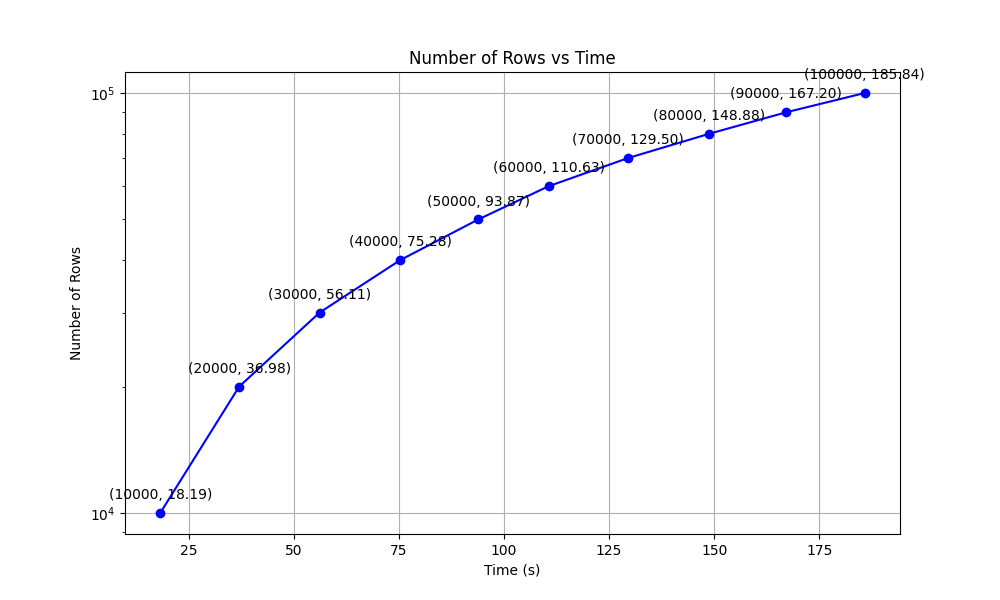
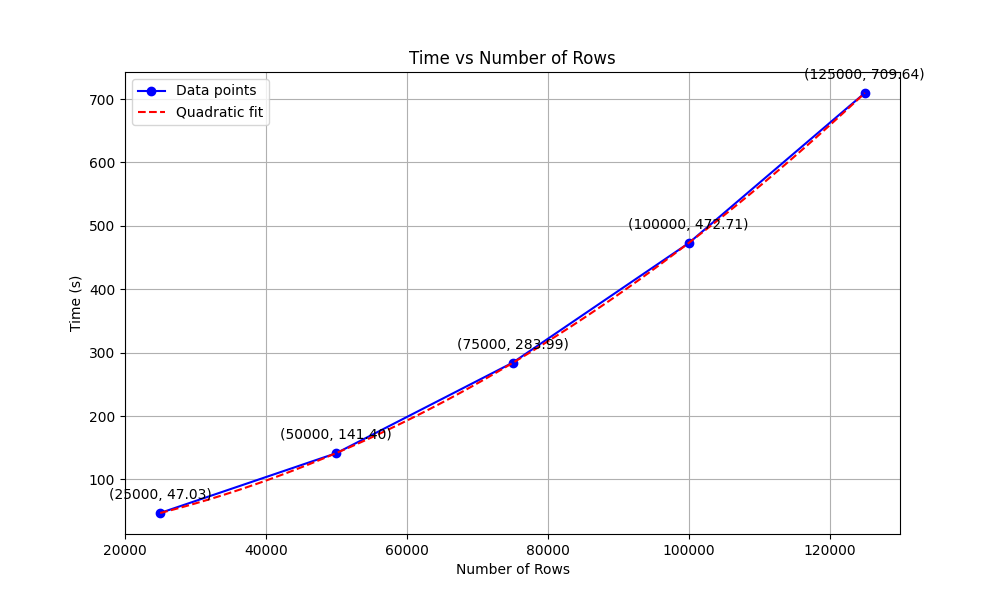
Measure model performance & test running on gpu

diff --git a/extractive_sum/extract_sum_gpu.py b/extractive_sum/extract_sum_gpu.py
@@ -1,12 +1,12 @@
 from typing import List
-from sklearn.feature_extraction.text import TfidfVectorizer
-from sklearn.decomposition import TruncatedSVD
+from cuml.feature_extraction.text import TfidfVectorizer
+from cuml.decomposition import TruncatedSVD
 from nltk.tokenize import sent_tokenize
 from nltk.corpus import stopwords
 import time
 import nltk
 import networkx as nx
-import numpy as np
+import cupy as cp
 
 nltk.download('punkt', quiet=True)
 nltk.download('stopwords', quiet=True)
@@ -18,15 +18,11 @@ and extract the most important sentences to form a summary.
 '''
 
 # Preprocess the text by tokenizing it into sentences
-
-
 def preprocess_text(text):
     sentences = sent_tokenize(text)
     return sentences
 
 # Build a similarity matrix based on the sentences
-
-
 def build_similarity_matrix(sentences):
     stop_words = list(set(stopwords.words('english')))
     vectorizer = TfidfVectorizer(stop_words=stop_words)
@@ -36,20 +32,16 @@ def build_similarity_matrix(sentences):
     svd = TruncatedSVD(n_components=n_components, random_state=42, n_iter=7)
     reduced_tfidf_matrix = svd.fit_transform(tfidf_matrix)
 
-    similarity_matrix = np.dot(reduced_tfidf_matrix, reduced_tfidf_matrix.T)
-    return similarity_matrix
+    similarity_matrix = cp.dot(reduced_tfidf_matrix, reduced_tfidf_matrix.T)
+    return similarity_matrix.get()
 
 # Rank the sentences based on the similarity matrix
-
-
 def rank_sentences(similarity_matrix):
     nx_graph = nx.from_numpy_array(similarity_matrix)
     scores = nx.pagerank(nx_graph, max_iter=100, tol=1e-6)
     return scores
 
 # Extract the summary from the ranked sentences
-
-
 def extract_summary(sentences, scores, num_sentences=3):
     ranked_sentences = sorted(
         ((scores[i], s) for i, s in enumerate(sentences)), reverse=True)
@@ -58,8 +50,6 @@ def extract_summary(sentences, scores, num_sentences=3):
     return summary
 
 # Process the text by preprocessing, building similarity matrix, ranking sentences, and extracting summary
-
-
 def process_text(text):
     sentences = preprocess_text(text)
     similarity_matrix = build_similarity_matrix(sentences)
@@ -67,22 +57,16 @@ def process_text(text):
     summary = extract_summary(sentences, scores)
     return summary
 
-
 '''
 Mass extract summaries from a list of texts and write the summaries to a list of summaries.
 '''
-
-
 def mass_extract_summaries(inputs: List[str]) -> List[str]:
     return [process_text(text) for text in inputs]
-
 
 '''
 This function is used to run the extractive summarization algorithm on different number of rows,
 to find relationship between the number of rows and the time taken to process them.
 '''
-
-
 def compare() -> None:
     print('Starting reading input')
     start_time = time.perf_counter()
@@ -110,9 +94,5 @@ def compare() -> None:
 
     print('All done!')
 
-
 if __name__ == '__main__':
-    # input_file = 'summary_input.txt'
-    # output_file = 'summary_output.txt'
-    # mass_extract_summaries(input_file, output_file)
     compare()

diff --git a/extractive_sum/visual.py b/extractive_sum/visual.py
@@ -1,31 +1,53 @@
 import matplotlib.pyplot as plt
+import numpy as np
+
+'''
+This code to visualize the relationship between the number of rows and the time taken to process them.
+'''
 
 # Read data from the file
+time_file = 'time_vs_rows.txt'
+plot_file = 'plot.png'
 data = []
-with open('time_vs_rows.txt', 'r') as file:
+with open(time_file, 'r') as file:
     for line in file:
         row, time = line.split()
         data.append((int(row), float(time)))
 
 # Parse the data
-rows = [row for row, time in data]
-times = [time for row, time in data]
+rows, times = zip(*data)
+
+# Fit a quadratic polynomial to the data
+coefficients = np.polyfit(rows, times, 2)
+a, b, c = coefficients
+print(f'Quadratic coefficients: a={a}, b={b}, c={c}')
+print(f'Fitted quadratic equation: y = {a:.8f}x^2 + {b:.8f}x + {c:.8f}')
+
+# Save the coefficients to a file
+coeff_file = 'quadratic_coefficients.txt'
+with open(coeff_file, 'w') as file:
+    file.write(f'{a} {b} {c}\n')
 
 # Plot the data
 plt.figure(figsize=(10, 6))
-plt.plot(times, rows, marker='o', linestyle='-', color='b')
-plt.xlabel('Time (s)')
-plt.ylabel('Number of Rows')
-plt.title('Number of Rows vs Time')
+plt.plot(rows, times, marker='o', linestyle='-',
+         color='b', label='Data points')
+plt.xlabel('Number of Rows')
+plt.ylabel('Time (s)')
+plt.title('Time vs Number of Rows')
 plt.grid(True)
-
-# Use logarithmic scale for y-axis to better show the relationship
-plt.yscale('log')
 
 # Add text annotations for each point
 for row, time in data:
-    plt.annotate(f'({row}, {time:.2f})', (time, row), textcoords="offset points", xytext=(0,10), ha='center')
+    plt.annotate(f'({row}, {time:.2f})', (row, time),
+                 textcoords="offset points", xytext=(0, 10), ha='center')
+
+# Plot the quadratic fit
+x_fit = np.linspace(min(rows), max(rows), 100)
+y_fit = a * x_fit**2 + b * x_fit + c
+plt.plot(x_fit, y_fit, color='r', linestyle='--', label='Quadratic fit')
 
 # Save the plot to a file
-plt.savefig('plot.png')
-print('Plot saved to plot.png')
+plt.legend()
+plt.savefig(plot_file)
+print(f'Plot saved to {plot_file}')

diff --git a/extractive_sum/simulate.py b/extractive_sum/simulate.py
@@ -1,0 +1,31 @@
+from rich import print
+
+'''
+This file simulates the time taken to process a given number of rows.
+
+Current work is quadratic function
+'''
+
+# n = int(input('Enter the number of rows: '))
+# n = 100000 # Test for 100,000 rows
+n = 1000000 # Test for 1,000,000 rows
+
+# Read coefficients from file
+coef = []
+coef_file = 'quadratic_coefficients.txt'
+with open(coef_file, 'r') as file:
+    for line in file:
+        coef = list(map(float, line.split()))
+
+# Ensure coefficients are correctly read
+a, b, c = coef
+
+# Calculate time in seconds
+sec = a * n**2 + b * n + c
+
+# Convert time to hours and days
+hours = sec / 3600
+days = sec / 86400
+
+# Print the formatted output
+print(f'Time taken to process {n:,} rows: {sec:,.2f} seconds ~ {hours:,.2f} hours ~ {days:,.2f} days')
